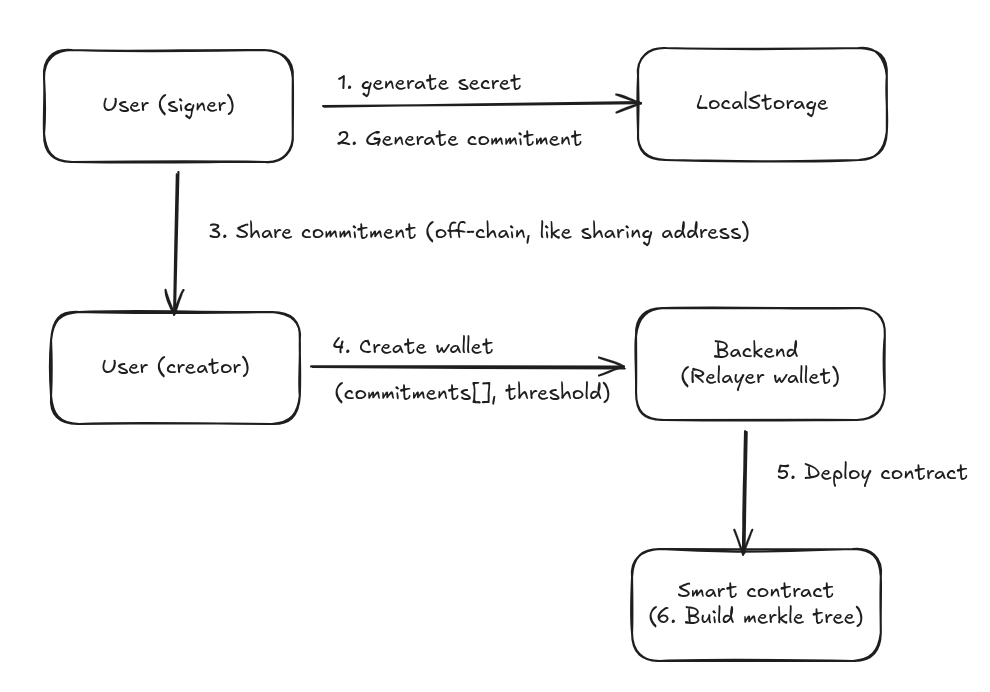
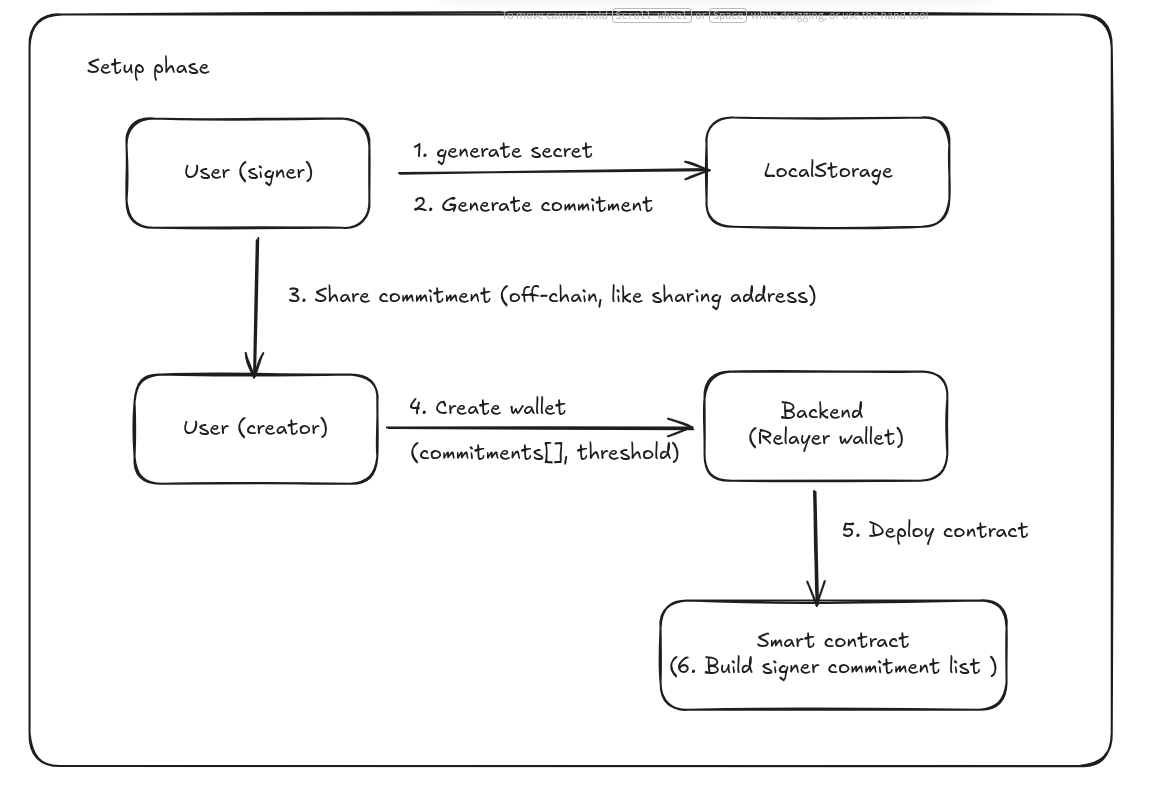
Update documentation and update API URL for ZK verification service

diff --git a/packages/backend/src/zkverify/zkverify.service.ts b/packages/backend/src/zkverify/zkverify.service.ts
@@ -9,18 +9,15 @@ import axios from 'axios';
 import * as fs from 'fs';
 import * as path from 'path';
 import {
-  SubmitProofDto,
   ZkVerifySubmitResponse,
   ZkVerifyJobStatusResponse,
-  ProposeTxAndSubmitProofDto,
-  SignTxDto,
 } from './dto';
 import { PrismaService } from '@/database/prisma.service';
 
 @Injectable()
 export class ZkVerifyService {
   private readonly logger = new Logger(ZkVerifyService.name);
-  private readonly apiUrl = 'https://relayer-api-testnet.horizenlabs.io/api/v1';
+  private readonly apiUrl = 'https://api-testnet.kurier.xyz/api/v1';
   private readonly apiKey: string;
   private readonly vkeyPath: string;
 

diff --git a/docs/developer-documentation/circuit-code-walkthrough.md b/docs/developer-documentation/circuit-code-walkthrough.md
@@ -4,13 +4,13 @@ This page provides a detailed explanation of the [Noir](https://noir-lang.org) c
 
 ## Overview
 
-The circuit file is located at `packages/nextjs/public/circuit/src/main.nr`. It proves four things in a single proof: transaction hash commitment is correct, ECDSA signature is valid, prover is a member of authorized signers, and nullifier prevents double-signing.
+The circuit file is located at `packages/nextjs/public/circuit/src/main.nr`. It proves four things in a single proof: transaction hash commitment is correct, ECDSA signature is valid, prover knows the secret for their commitment, and nullifier prevents double-signing.
 
 ## Circuit Structure
 
-### Constants and Imports
+### Imports
 
-The circuit uses `keccak256` for Ethereum-compatible message hashing, `poseidon` as a ZK-friendly hash function for commitments and nullifiers, and sets `DEPTH = 4` meaning the Merkle tree supports 2^4 = 16 signers maximum.
+The circuit uses `keccak256` for Ethereum-compatible message hashing and `poseidon` as a ZK-friendly hash function for commitments and nullifiers.
 
 ## Main Function Inputs
 
@@ -24,8 +24,6 @@ These inputs are hidden from everyone - only the prover knows them:
 | pub_key_x | [u8; 32] | Public key X coordinate |
 | pub_key_y | [u8; 32] | Public key Y coordinate |
 | secret | Field | Signer's secret |
-| leaf_index | Field | Position in Merkle tree |
-| merkle_path | [Field; DEPTH] | Sibling hashes for proof |
 | tx_hash_bytes | [u8; 32] | Transaction hash to sign |
 
 ### Public Inputs
@@ -35,7 +33,7 @@ These inputs are visible on-chain and used for verification:
 | Input | Type | Description |
 |-------|------|-------------|
 | tx_hash_commitment | Field | Poseidon hash of tx_hash |
-| merkle_root | Field | Root of authorized signers tree |
+| commitment | Field | hash(secret, secret) - checked against signers list |
 | nullifier | Field | Unique identifier to prevent double-signing |
 
 ## Step-by-Step Explanation
@@ -52,11 +50,11 @@ The circuit reconstructs Ethereum's `personal_sign` prefix `"\x19Ethereum Signed
 
 **Why prefix?** Ethereum wallets always add this prefix when signing. We must match the exact message that was signed.
 
-### Step 3: Verify Merkle Membership
+### Step 3: Verify Commitment Ownership
 
-The circuit computes commitment from secret using `commitment = hash(secret, secret)`, uses `leaf_index` and `merkle_path` to compute [Merkle](https://en.wikipedia.org/wiki/Merkle_tree) root, then compares with public `merkle_root`.
+The circuit computes commitment from secret using `commitment = hash(secret, secret)`, then compares with public `commitment`.
 
-**Privacy:** The circuit proves "I know a secret whose commitment is in the tree" without revealing which leaf.
+**How authorization works:** The circuit proves "I know the secret for this commitment". Then the smart contract checks "Is this commitment in the signers list?" This two-step verification ensures only authorized signers can sign transactions.
 
 ### Step 4: Verify Nullifier
 
@@ -65,10 +63,6 @@ The circuit computes nullifier using `nullifier = hash(secret, tx_hash)` and com
 **Why?** Same signer + same tx = same nullifier → Contract rejects (already used). Different signer OR different tx = different nullifier → Contract accepts.
 
 ## Helper Functions
-
-### compute_merkle_root
-
-This function converts `leaf_index` to bits (little-endian), then for each level, the bit determines left/right position: bit = 0 means current is left child, bit = 1 means current is right child. It hashes with sibling from `merkle_path` and repeats until reaching root.
 
 ### bytes_to_field
 
@@ -83,7 +77,7 @@ Wrapper for [Poseidon](https://www.poseidon-hash.info) hash with 2 inputs.
 | Attack | Prevention |
 |--------|------------|
 | Fake signature | ECDSA verification in circuit |
-| Non-member signing | Merkle membership proof |
+| Non-member signing | Commitment checked against signers list on-chain |
 | Double signing | Nullifier stored on-chain |
 | Transaction tampering | tx_hash_commitment verification |
 | Replay attack | Nonce included in tx_hash |
@@ -91,7 +85,6 @@ Wrapper for [Poseidon](https://www.poseidon-hash.info) hash with 2 inputs.
 ## Compile and Test
 
 Navigate to noir package with `cd packages/nextjs/public/circuit/src`, compile circuit with `nargo compile`, run tests with `nargo test`.
-
 
 ## Learn More
 

diff --git a/docs/zero-knowledge-implementation.md b/docs/zero-knowledge-implementation.md
@@ -15,8 +15,8 @@ In a traditional multisig wallet:
 - Signer addresses are public on blockchain
 
 In PolyPay:
-- You prove "I am an authorized signer" without revealing WHICH signer you are
-- Only the proof is public, your identity stays private
+- You prove "I know the secret for an authorized commitment" without revealing your EOA address
+- Your Ethereum address stays private, only the commitment is visible
 
 ## The Four Proofs
 
@@ -44,18 +44,22 @@ When you sign a transaction in PolyPay, the ZK circuit proves four things simult
 
 ### Proof 3: "I am authorized"
 
-**Problem:** How to prove you're in the signers list without revealing which one?
+**Problem:** How to prove you're in the signers list?
 
 **Solution:**
 - Each signer has a secret "commitment" stored as: `commitment = hash(secret, secret)`
-- All commitments form a [Merkle Tree](https://en.wikipedia.org/wiki/Merkle_tree)
-- You prove your commitment exists in the tree WITHOUT revealing which leaf
+- The circuit proves you know the secret for a given commitment
+- The smart contract checks if that commitment exists in the signers list
 
-**Analogy:** Imagine a club membership list. You prove "my name is on the list" without pointing to which line.
+**Analogy:** Imagine a club membership list. You prove "I know the password for one of these memberships" and the club verifies that membership is on the list.
 
-**How Merkle Proof works:**
+**How it works:**
 
-You have a tree structure where your commitment is one of the leaves (A, B, C, or D). To prove membership, you provide sibling hashes along the path from your leaf to the root. The circuit computes the root from your path and checks it matches the public root.
+The circuit verifies: `hash(secret, secret) == commitment`
+
+Then the smart contract checks: `commitment in signers list?`
+
+This two-step verification ensures only authorized signers can sign transactions while keeping their Ethereum addresses private.
 
 ### Proof 4: "I haven't signed before"
 
@@ -72,11 +76,11 @@ You have a tree structure where your commitment is one of the leaves (A, B, C, o
 
 1. **User Signs:** User signs tx_hash with their Ethereum wallet → Produces signature, pub_key_x, pub_key_y
 
-2. **Frontend Generates Proof:** [Noir](https://noir-lang.org) circuit receives private inputs (signature, pub_key, secret, merkle_path, tx_hash) and public inputs (tx_hash_commitment, merkle_root, nullifier) → Outputs ZK Proof
+2. **Frontend Generates Proof:** [Noir](https://noir-lang.org) circuit receives private inputs (signature, pub_key, secret, tx_hash) and public inputs (tx_hash_commitment, commitment, nullifier) → Outputs ZK Proof
 
 3. **Backend Verifies via zkVerify:** Proof submitted to [zkVerify](https://docs.zkverify.io) for verification → Returns aggregation_id, attestation
 
-4. **Smart Contract Executes:** When threshold signatures reached, contract verifies all proofs on-chain, checks nullifiers not used, checks merkle_root matches current signers, then executes transaction
+4. **Smart Contract Executes:** When threshold signatures reached, contract verifies all proofs on-chain, checks nullifiers not used, checks each commitment is in current signers list, then executes transaction
 
 ## Circuit Inputs Reference
 
@@ -88,8 +92,6 @@ You have a tree structure where your commitment is one of the leaves (A, B, C, o
 | pub_key_x | [u8; 32] | Public key X coordinate |
 | pub_key_y | [u8; 32] | Public key Y coordinate |
 | secret | Field | Signer's secret (from signing "polypay-identity") |
-| leaf_index | Field | Position in Merkle tree |
-| merkle_path | [Field; 4] | Sibling hashes for proof |
 | tx_hash_bytes | [u8; 32] | Transaction hash to sign |
 
 ### Public Inputs (Visible on-chain)
@@ -97,7 +99,7 @@ You have a tree structure where your commitment is one of the leaves (A, B, C, o
 | Input | Type | Description |
 |-------|------|-------------|
 | tx_hash_commitment | Field | Poseidon hash of tx_hash |
-| merkle_root | Field | Root of authorized signers tree |
+| commitment | Field | hash(secret, secret) - checked against signers list |
 | nullifier | Field | Prevents double-signing |
 
 ## More Detail

diff --git a/docs/privacy-architecture.md b/docs/privacy-architecture.md
@@ -5,30 +5,32 @@
 | Aspect          | Traditional Multisig             | PolyPay                   |
 | --------------- | -------------------------------- | ------------------------- |
 | Signer Identity | Public addresses stored on-chain | Hidden behind commitments |
-| Who Signed      | Visible to everyone              | Only the signer knows     |
+| Who Signed      | Visible to everyone              | Commitment visible, EOA hidden |
 
 ### Commitment-Based Identity
 
 Instead of storing addresses, PolyPay stores **commitments** (hash(secret, secret)):
 
 * The **secret** is derived from signing a message with your wallet
-* The **commitment** is stored on-chain (in a Merkle tree)
+* The **commitment** is stored on-chain in a signers list
 * Only you know the secret that matches your commitment
 
 ### How It Works
 
 1. **Setup**: Each signer generates a secret and computes their commitment
-2. **Registration**: Commitments are added to the smart contract's Merkle tree
-3. **Signing**: To approve a transaction, signers prove they know a secret that matches one of the commitments - without revealing which one
+2. **Registration**: Commitments are added to the smart contract's signers list
+3. **Signing**: To approve a transaction, signers prove they know the secret for their commitment using ZK proofs
+4. **Verification**: The smart contract checks if the commitment exists in the signers list
 
-### Anonymity Set
+### Privacy Model
 
-All signers share the same anonymity set. When you sign a transaction:
+When you sign a transaction:
 
-* The contract knows "one of the N signers approved"
-* Nobody knows "which specific signer approved"
+* The ZK proof verifies you know the secret for your commitment
+* The contract checks your commitment is in the authorized signers list
+* Your Ethereum address (EOA) is never revealed on-chain
 
-This is achieved through ZK proofs and Merkle tree membership proofs.
+This means observers can see which commitment signed, but cannot link it back to your wallet address.
 
 ### Relayer Privacy
 
@@ -43,4 +45,4 @@ PolyPay's backend uses a dedicated relayer wallet to deploy wallets and execute 
 | Deploy wallet       | Creator address exposed  | Only relayer visible |
 | Execute transaction | Executor address exposed | Only relayer visible |
 
-This creates **complete anonymity**: no signer address ever appears on-chain.
+This creates **complete EOA anonymity**: no signer's Ethereum address ever appears on-chain.
